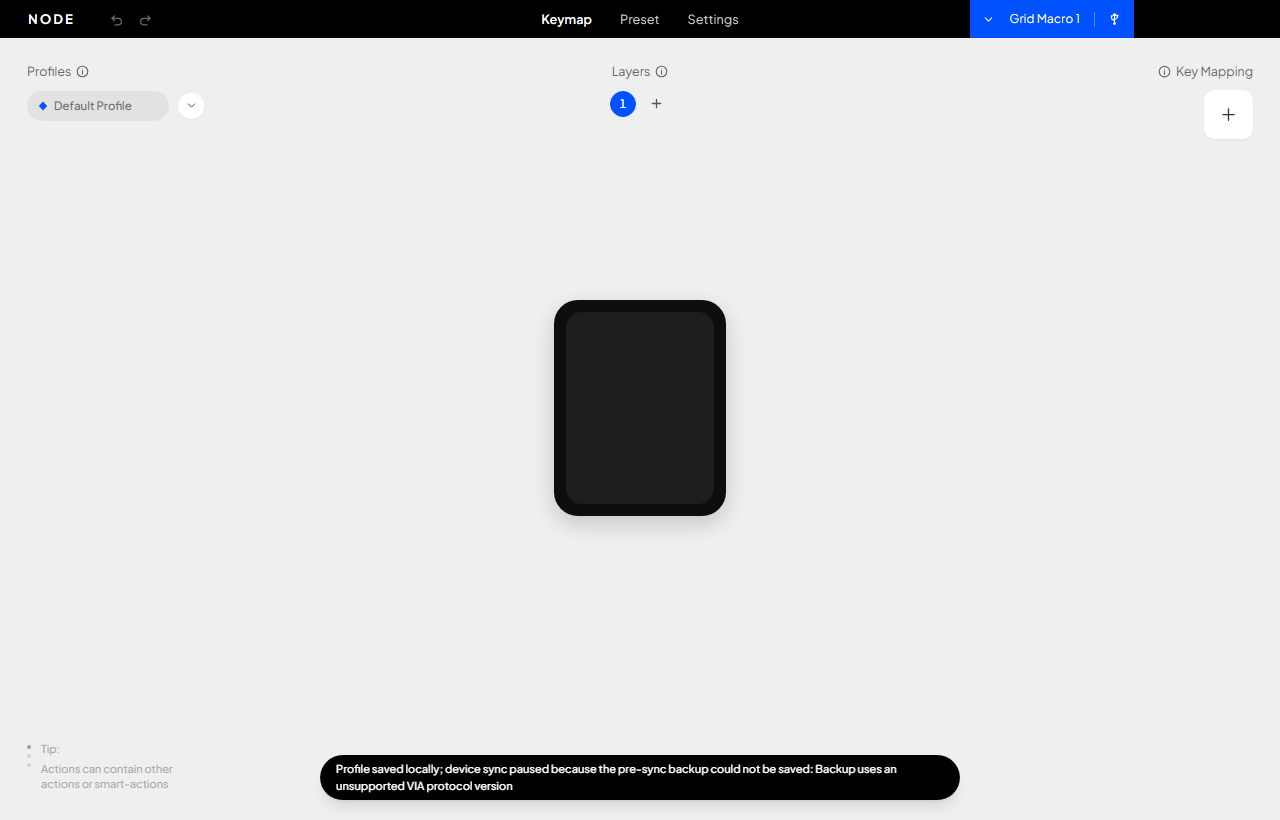
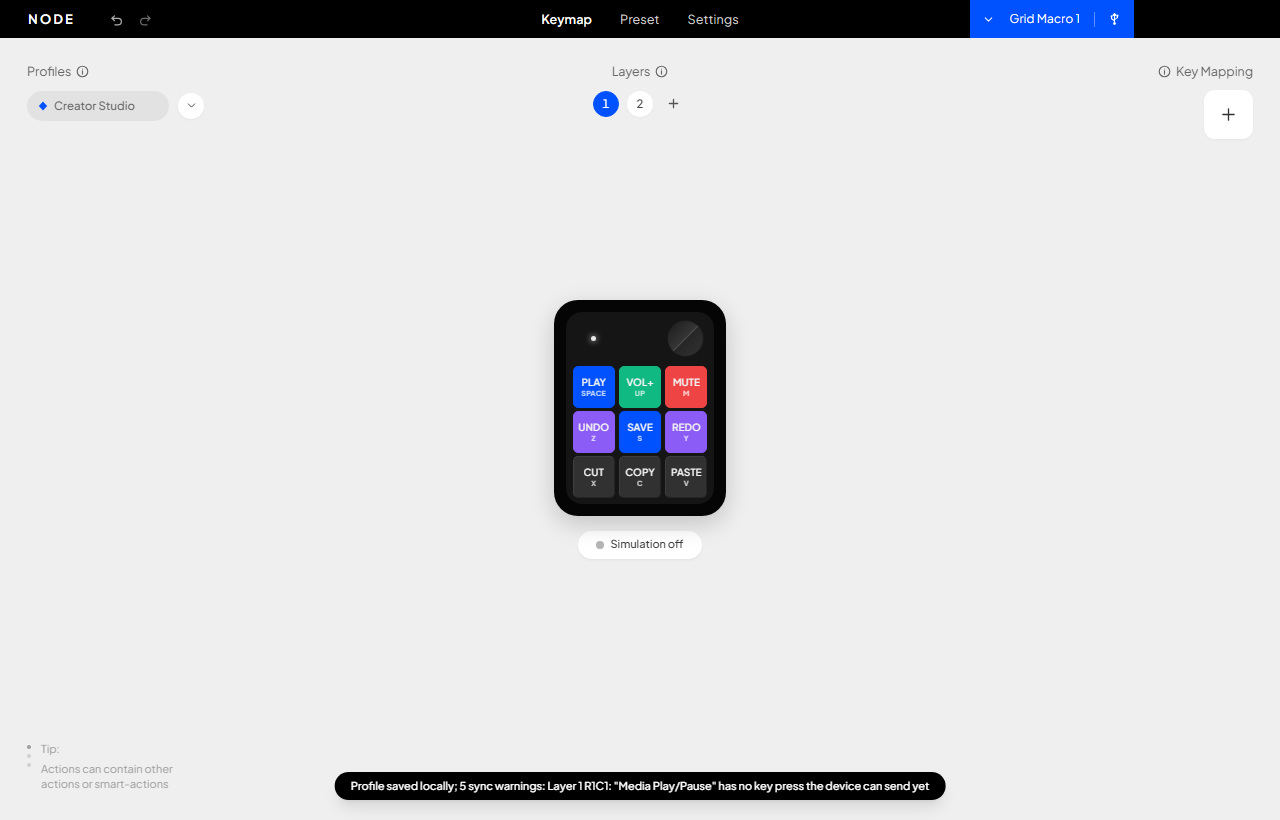
docs(tutorial): regenerate crisp populated screenshots without transient toasts and update caption version to v1.1.11

diff --git a/e2e/captureScreenshots.spec.ts b/e2e/captureScreenshots.spec.ts
@@ -8,7 +8,7 @@ test.describe('Tutorial Screenshots Capture', () => {
     await page.addInitScript(() => {
       const slots = ['r1c1', 'r1c2', 'r1c3', 'r2c1', 'r2c2', 'r2c3', 'r3c1', 'r3c2', 'r3c3'];
       const snapshot = {
-        protocolVersion: 12,
+        protocolVersion: 13,
         layerCount: 4,
         capturedLayerCount: 4,
         layers: Array.from({ length: 4 }, () => ({
@@ -19,12 +19,37 @@ test.describe('Tutorial Screenshots Capture', () => {
       const statusObj = {
         state: 'connected',
         device: 'Grid Macro 1',
-        fw: 'VIA 01020304',
-        path: 'VIA 4 layers',
+        fw: 'VIA v13 (RP2040-Zero)',
+        path: 'Raw HID 0xFEED:0x6001',
         layerCount: 4,
         deviceActiveLayer: 0,
         activeProfileSlot: 0,
       };
+
+      const richState = {
+        v: 1,
+        profiles: [{
+          id: 'profile-creator',
+          name: 'Creator Studio',
+          color: '#0051ff',
+          layers: [{
+            r1c1: { label: 'Play', binding: 'Media Play/Pause', customLegend: 'PLAY', subLegend: 'SPACE', keycapColor: '#0051ff' },
+            r1c2: { label: 'Vol+', binding: 'Volume Up', customLegend: 'VOL+', subLegend: 'UP', keycapColor: '#10b981' },
+            r1c3: { label: 'Mute', binding: 'Audio Mute', customLegend: 'MUTE', subLegend: 'M', keycapColor: '#ef4444' },
+            r2c1: { label: 'Undo', binding: 'Ctrl + Z', customLegend: 'UNDO', subLegend: 'Z', keycapColor: '#8b5cf6' },
+            r2c2: { label: 'Save', binding: 'Ctrl + S', customLegend: 'SAVE', subLegend: 'S', keycapColor: '#0051ff' },
+            r2c3: { label: 'Redo', binding: 'Ctrl + Y', customLegend: 'REDO', subLegend: 'Y', keycapColor: '#8b5cf6' },
+            r3c1: { label: 'Cut', binding: 'Ctrl + X', customLegend: 'CUT', subLegend: 'X' },
+            r3c2: { label: 'Copy', binding: 'Ctrl + C', customLegend: 'COPY', subLegend: 'C' },
+            r3c3: { label: 'Paste', binding: 'Ctrl + V', customLegend: 'PASTE', subLegend: 'V' },
+            dial: { label: 'Timeline Scrub', binding: 'Timeline Scrub (CCW: Left / CW: Right)' },
+          }],
+        }],
+        activeProfileIndex: 0,
+      };
+      try {
+        window.localStorage.setItem('cm2.state.v2', JSON.stringify(richState));
+      } catch {}
 
       (window as unknown as { macropad: unknown }).macropad = {
         getStatus: () => Promise.resolve(statusObj),
@@ -33,7 +58,7 @@ test.describe('Tutorial Screenshots Capture', () => {
           return () => {};
         },
         onEvent: () => () => {},
-        getFile: async () => ({ ok: false }),
+        getFile: async () => ({ ok: true, data: new Uint8Array([0x01, 0x02, 0x03]) }),
         putFile: async () => ({ ok: true }),
         disconnect: async () => {},
         connect: async () => statusObj,
@@ -87,11 +112,24 @@ test.describe('Tutorial Screenshots Capture', () => {
 
     await page.goto('/');
     await expect(page.getByRole('button', { name: 'Keymap', exact: true })).toBeVisible({ timeout: 15000 });
+    // Hide transient toast notifications so tutorial screenshots remain pristine and uncluttered
+    await page.addStyleTag({ content: '[data-testid="feedback-toast"] { display: none !important; }' });
     await page.waitForTimeout(600);
 
     const assetsDir = path.resolve(process.cwd(), 'website/assets');
 
-    // 1. Capture Main Studio View
+    // Populate the macropad with a real creative preset for authentic, vibrant screenshots
+    await page.getByRole('button', { name: 'Preset', exact: true }).click();
+    await page.waitForTimeout(600);
+    const installBtn = page.locator('button:has-text("Install")').first();
+    if (await installBtn.isVisible()) {
+      await installBtn.click();
+      await page.waitForTimeout(600);
+    }
+    await page.getByRole('button', { name: 'Keymap', exact: true }).click();
+    await page.waitForTimeout(600);
+
+    // 1. Capture Main Studio View (now fully populated with 3x3 keys and dial)
     await page.screenshot({ path: path.join(assetsDir, 'tutorial-main-studio.png') });
 
     // 2. Click Key 1 to open drawer with Keycap Legend & Color Personalization

diff --git a/website/tutorial.html b/website/tutorial.html
@@ -99,7 +99,7 @@
                     <span class="status-dot"></span>
                     Figure 1: Main Studio View — Real-time connection badge, 3×3 matrix, rotary dial, 4 hardware layers, and profile selector.
                   </span>
-                  <span>NODE studio v1.0.0</span>
+                  <span>NODE studio v1.1.11</span>
                 </figcaption>
               </figure>
 
